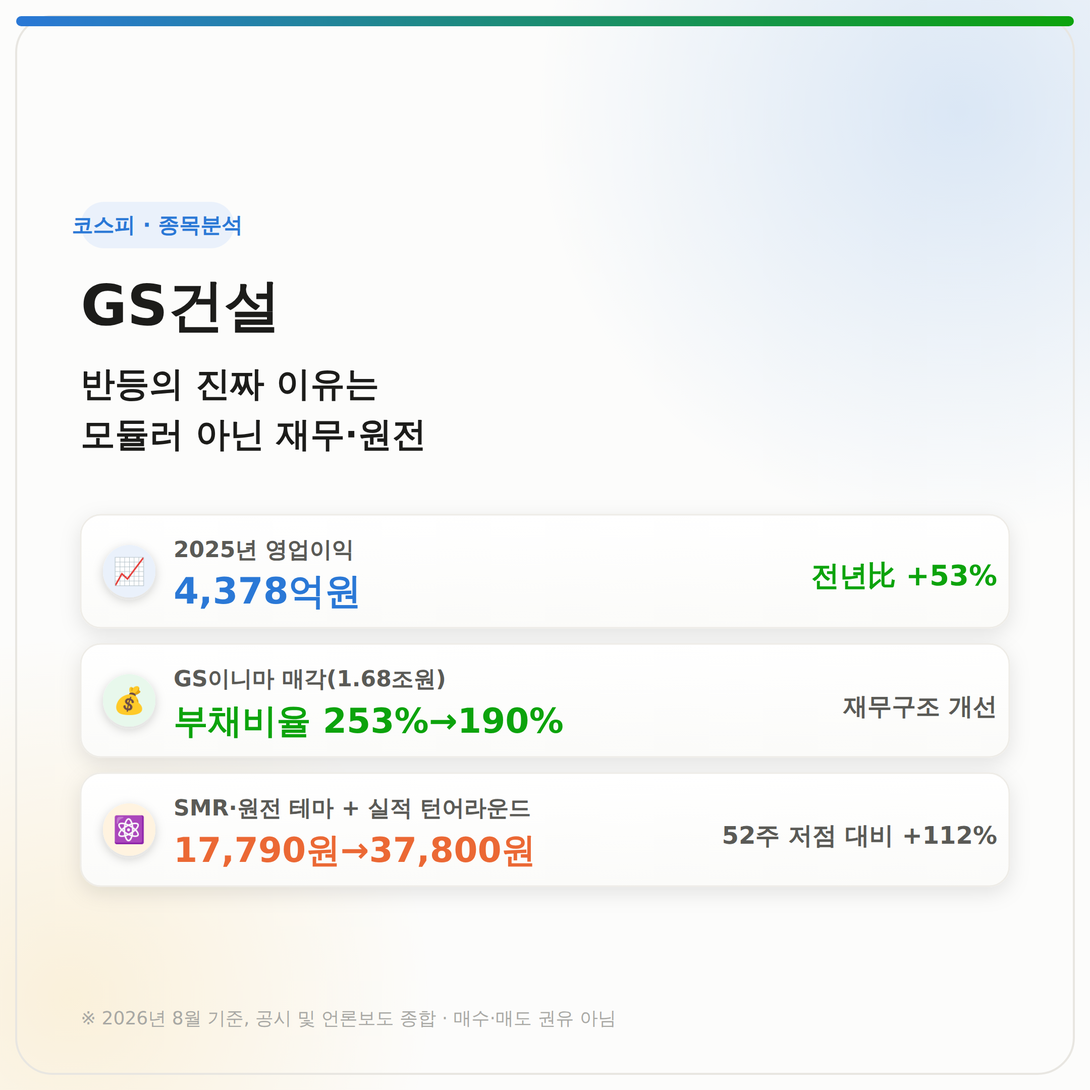
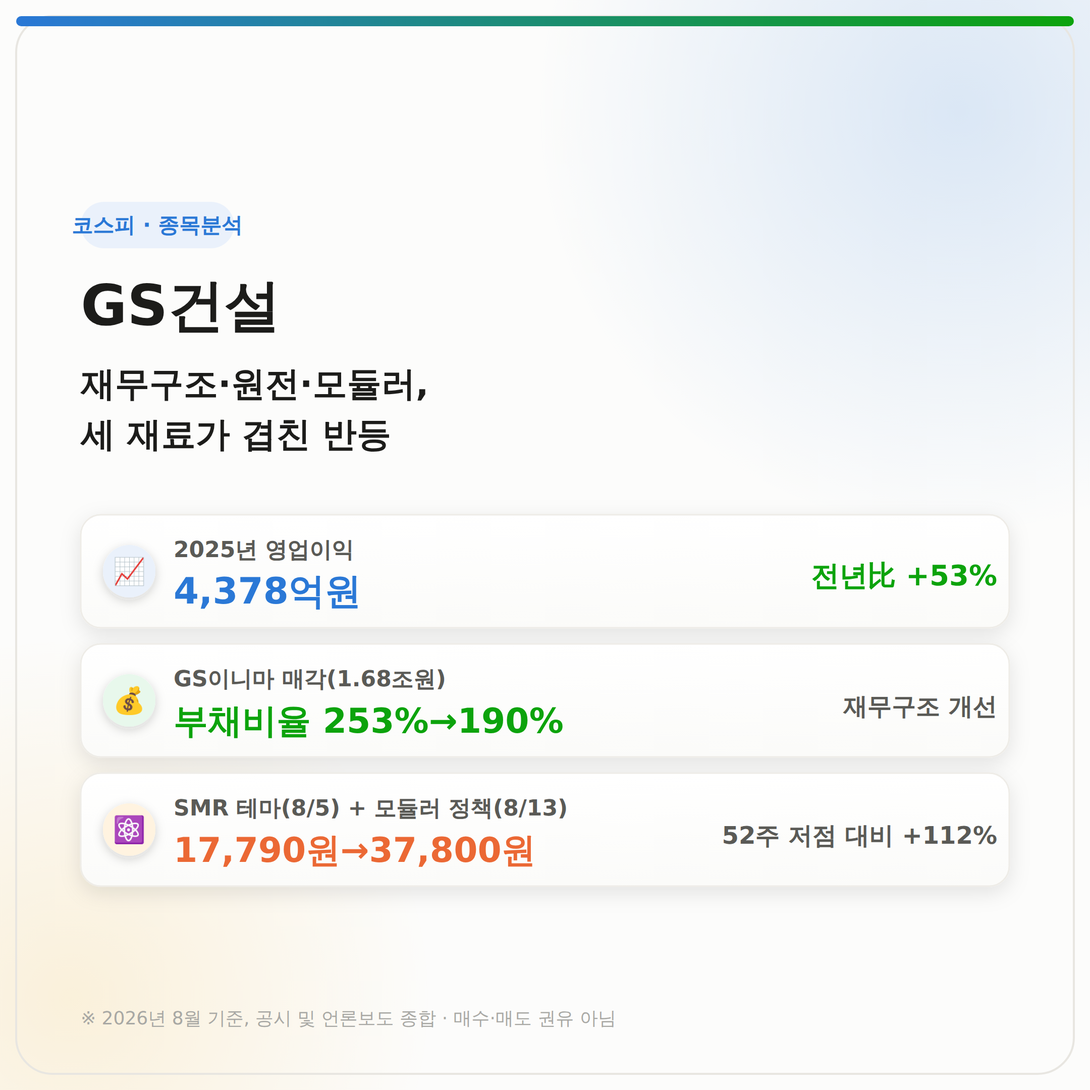
fix: GS건설 글 정정 - 모듈러도 반등 재료 중 하나로 재구성
- '모듈러는 관련없다'는 기존 서술을 정정: 8/13 국토부 '주택 신속공급 방안'
  (모듈러 공공주택 발주 1.2만→2만가구, 공사비 50% 지원)이 8/5 SMR 테마,
  GS이니마 매각발 재무구조 개선과 비슷한 시기에 겹친 세 번째 재료였음을 반영
- 자이가이스트 3분기 누적매출 1,990억원(+33.6%)·영업손실 170억원 등
  구체 수치로 '정책 훈풍은 있지만 개별 실적은 아직 적자'라는 균형 잡힌 톤으로 수정
- 제목/커버/차트를 '재무구조·원전·모듈러 세 재료' 프레이밍으로 전면 수정,
  종가추이 차트에 8/13 모듈러 정책 콜아웃 추가
- 시나리오/투자포인트·리스크/결론 전반에 모듈러 정책 변수 반영

Changed region(s): [[0.062, 0.3412, 0.4032, 0.4343], [0.3412, 0.7134, 0.5273, 0.7755], [0.2171, 0.7134, 0.3102, 0.7755]]

diff --git a/src/App.tsx b/src/App.tsx
@@ -9,20 +9,20 @@ import { Post } from './types';
 const samplePosts: Post[] = [
   {
     id: 'post-37',
-    title: 'GS건설 분석 - 반등의 진짜 이유는 모듈러 아닌 재무·원전',
+    title: 'GS건설 분석 - 재무구조·원전·모듈러, 세 재료가 겹친 반등',
     category: '주식',
     date: '2026-08-27',
     tags: ['주식', 'GS건설', '건설주', 'SMR', '원전', '모듈러주택', '종목분석', '코스피'],
     naverCategory: '국내주식',
     filePath: 'posts/stock/gsenc-analysis.md',
     content: `
-# GS건설 분석 - 반등의 진짜 이유는 모듈러 아닌 재무·원전
+# GS건설 분석 - 재무구조·원전·모듈러, 세 재료가 겹친 반등
 
 안녕하세요 대왕토끼입니다~ 🐰
 
-![GS건설 주식분석 커버 이미지 - 반등의 진짜 이유는 모듈러 아닌 재무·원전, 2025년 영업이익 4378억원 전년比 +53%, GS이니마 매각(1.68조원) 부채비율 253%→190% 재무구조 개선, SMR원전 테마+실적 턴어라운드 17790원→37800원 52주 저점 대비 +112%](/images/gsenc-stock/gsenc-cover.png)
+![GS건설 주식분석 커버 이미지 - 재무구조·원전·모듈러 세 재료가 겹친 반등, 2025년 영업이익 4378억원 전년比 +53%, GS이니마 매각(1.68조원) 부채비율 253%→190% 재무구조 개선, SMR원전 테마+모듈러 공공정책 17790원→37800원 52주 저점 대비 +112%](/images/gsenc-stock/gsenc-cover.png)
 
-이번 글에서는 52주 저점 대비 두 배 넘게 뛴 **GS건설**을 살펴보려고 합니다. "모듈러 주택 때문에 오른 거 아니냐"는 질문을 받았는데, 결론부터 말씀드리면 **아니에요**. 실제로 주가를 끌어올린 건 재무구조 개선과 원전(SMR) 테마였고, 모듈러 주택은 오히려 최근 몇 년간 고전해온 사업이에요. 차근차근 짚어볼게요.
+이번 글에서는 52주 저점 대비 두 배 넘게 뛴 **GS건설**을 살펴보려고 합니다. "모듈러 주택 때문에 오른 거 아니냐"는 질문을 받고 처음에는 "아니다"라고 정리했었는데, 다시 파보니 그렇게 딱 잘라 말하긴 어렵겠더라고요. 실제로는 재무구조 개선, 원전(SMR) 테마, 그리고 8월 중순 나온 모듈러 공공주택 정책 확대까지 — 비슷한 시기에 세 가지 재료가 겹친 걸로 보여요. 순서대로 짚어볼게요.
 
 > ⚠ 이 글은 특정 종목의 매수·매도를 권유하는 글이 아니며, 투자 판단과 책임은 투자자 본인에게 있습니다. 수치는 공시 및 언론 보도를 바탕으로 정리했습니다. 투자 전 최신 사업보고서와 증권사 리포트를 반드시 직접 확인해 주세요.
 
@@ -46,6 +46,7 @@ GS건설은 GS그룹 계열의 종합건설사로, 아파트 브랜드 '자이(X
 
 - **밸류에이션 재평가**: 건설주들이 장기간 저평가돼 있던 상태에서, 실적 턴어라운드가 확인되며 PBR(주가순자산비율) 재평가가 진행되고 있어요. GS건설도 PBR 0.3배 수준까지 떨어졌던 '바닥권'에서 반등한 사례로 꼽혀요.
 - **SMR(소형모듈원자로)·원전 테마**: 정부가 2026년 세제개편안을 통해 국가전략기술 적용 범위를 기존 수소 분야에서 SMR·MMR(초소형원자로) 등으로 확대하기로 하면서, 관련 기업들이 R&D 비용의 30~50%, 시설투자 비용의 15~30%를 세액공제받을 수 있게 됐어요. 여기에 테라파워 창업자 빌 게이츠의 방한 소식까지 겹치며 원전·건설 관련주 전반이 강세를 보였습니다.
+- **모듈러 공공주택 정책 확대**: 정부가 8월 13일 발표한 '주택 신속공급 방안'에는 LH 등의 모듈러 공공주택 발주 물량을 2027~2030년 1만 2,000가구에서 2만 가구로 67% 늘리고, 일반공법 대비 초과되는 공사비(호당 약 7,000만원)의 절반가량을 재정지원하는 내용이 담겼어요. 국내 모듈러 주택 시장 규모도 2025년 1조 6,000억원에서 2030년 4조 4,000억원으로 연평균 24%가량 성장할 것으로 전망되고 있고요.
 - **데이터센터 사업**: 일부 증권사는 GS그룹 차원의 데이터센터 사업 본격화도 GS건설의 새로운 성장 동력으로 주목하고 있어요.
 
 이 흐름 안에서 GS건설은 원전·SMR 관련 시공 경험과 실적 턴어라운드가 동시에 부각되며, 건설업종 내에서도 특히 강한 반등을 보인 종목으로 꼽혀요.
@@ -64,7 +65,7 @@ GS건설의 최근 실적은 "외형은 줄고 수익성은 개선"되는 흐름
 
 ---
 
-## 4. 가장 큰 이슈 - 진짜 반등 재료는 모듈러가 아니다
+## 4. 가장 큰 이슈 - 재무구조, 원전, 모듈러 정책까지 세 겹의 호재
 
 ### ① 재무구조 개선 - GS이니마 매각이 결정타
 
@@ -78,15 +79,21 @@ GS건설은 스페인 수처리 자회사 GS이니마를 1조 6,770억원에 매
 
 이후에도 강세는 이어져서, 8월 26일에는 건설업종 전체가 강세(+5.77%)를 보인 가운데 GS건설은 +8.00% 오른 37,800원으로 마감했어요. 52주 저점 대비로는 이미 두 배 넘게(+112%) 오른 상태입니다.
 
-### ③ 그렇다면 모듈러 주택은? - 아직은 '진행형 숙제'에 가깝다
+### ③ 8월 13일, 모듈러 공공주택 정책까지 겹쳤다
 
-정작 모듈러 주택 사업은 최근 이 반등의 직접적인 재료는 아니었어요. 오히려 신사업으로서는 아직 갈 길이 멀다는 평가가 많아요.
+여기에 8월 13일, 정부의 '주택 신속공급 방안' 발표가 더해졌어요. 모듈러 공공주택 발주 물량을 2만 가구로 67% 늘리고 공사비의 절반가량을 재정지원하겠다는 내용은, 모듈러 사업을 신성장 축으로 키워온 GS건설 입장에서 분명한 정책 호재예요. 삼성전자·LG전자도 같은 시장에 뛰어들며 경쟁이 붙을 만큼, 모듈러 주택 자체가 업계 전반에서 재평가받는 분위기이기도 하고요.
 
-- 국내 모듈러 자회사 **자이가이스트**는 매출이 늘고 있음에도 5년째 적자를 벗어나지 못하고 있어요.
-- 영국 철골 모듈러 자회사 **엘리먼츠 유럽**은 신사업 동력에 대한 우려 속에 2025년 7월 청산됐어요.
+다만 정책 훈풍과 회사의 실제 실적은 아직 온도차가 있어요.
+
+- 국내 모듈러 자회사 **자이가이스트**는 3분기 누적매출 1,990억원으로 전년 연간(1,490억원) 대비 이미 +33.6% 성장했지만, 영업손실 170억원을 내며 5년 연속 적자를 벗어나지 못하고 있어요.
+- 영국 철골 모듈러 자회사 **엘리먼츠 유럽**은 대형 프로젝트(버밍엄 캠프힐, 약 2,100억원 규모)에서 큰 손실을 내며 2025년 청산 절차에 들어갔어요.
 - 폴란드 목조 모듈러 자회사 **단우드**만 유럽 시장에서 비교적 견조한 실적을 내며 버팀목 역할을 하고 있는 정도예요.
 
-정리하면, 모듈러 주택은 허윤홍 대표가 직접 챙기는 장기 성장 스토리이긴 하지만, 실제 이번 주가 반등을 만든 건 ①재무구조 개선과 ②SMR·원전 테마 두 가지였다는 게 더 정확한 설명이에요.
+즉 모듈러 주택은 8월 13일 정책 발표 이후 "GS건설의 신사업 전반이 재평가받는" 흐름에 확실히 힘을 보탠 재료이지만, 8월 5일의 급등 그 자체를 만든 재료는 아니었고 자이가이스트의 개별 실적은 여전히 적자라는 점은 구분해서 볼 필요가 있어요.
+
+### ④ 종합하면 - 세 재료가 시차를 두고 겹친 반등
+
+정리하면 이런 순서예요: 8월 5일 SMR·원전 테마가 첫 급등을 만들었고, GS이니마 매각으로 상징되는 재무구조 개선이 그 반등에 펀더멘털을 뒷받침했고, 8월 13일 모듈러 공공주택 정책 확대가 신사업 전반에 대한 기대감을 더했다고 보는 게 정확해요. "모듈러 때문에 올랐다"고 단정하기도, "모듈러는 상관없다"고 잘라 말하기도 둘 다 지나친 셈이고, 세 재료가 8월 한 달 사이 시차를 두고 겹친 결과로 보는 게 가장 균형 잡힌 설명일 것 같아요.
 
 ---
 
@@ -111,19 +118,21 @@ GS건설은 스페인 수처리 자회사 GS이니마를 1조 6,770억원에 매
 
 ## 6. 앞으로의 향방: 두 가지 시나리오
 
-### 📈 낙관 시나리오 (재무개선 + 원전 모멘텀 지속)
+### 📈 낙관 시나리오 (재무개선 + 원전·모듈러 모멘텀 지속)
 - GS이니마 매각 대금이 실제로 유입되며 부채비율 개선이 재무제표로 확인되는 흐름
 - SMR·원전 관련 실제 수주 성과가 나오며 테마가 실적으로 연결되는 흐름
+- 모듈러 공공주택 발주 확대(2만 가구)가 실제 수주로 이어지며 자이가이스트 적자 폭이 줄어드는 흐름
 - 주택사업 매출총이익률이 전망대로 14.6~17.6%까지 회복되는 흐름
-- 관전 포인트: GS이니마 매각 종결 시점, SMR 관련 실제 수주 소식, 3분기 주택 마진 추이
+- 관전 포인트: GS이니마 매각 종결 시점, SMR·모듈러 관련 실제 수주 소식, 3분기 주택 마진과 자이가이스트 적자 추이
 
 ### 📉 비관 시나리오 (테마 소멸 + 본업 부진 재현)
 - 원전·SMR 테마가 실제 수주 성과 없이 기대감만으로 끝나며 차익실현 매물이 출회하는 흐름
+- 모듈러 공공주택 정책이 발표만큼 빠르게 집행되지 못하며 기대감이 식는 흐름
 - 대손비용 같은 일회성 비용이 다시 반영되며 분기 실적 변동성이 커지는 흐름
-- 모듈러 등 신사업의 적자가 장기화되며 신성장 부문 전체에 대한 우려가 재부각되는 흐름
+- 자이가이스트 등 모듈러 신사업의 적자가 장기화되며 신성장 부문 전체에 대한 우려가 재부각되는 흐름
 - 단기 급등에 따른 밸류에이션 부담(목표가 하회 사례처럼)이 부각되는 흐름
 
-결국 핵심은 "재무구조 개선과 원전 테마가 실제 수주·실적으로 이어지는지"를 다음 분기부터 확인하는 거예요.
+결국 핵심은 "재무구조 개선, 원전 테마, 모듈러 정책 세 가지가 실제 수주·실적으로 이어지는지"를 다음 분기부터 확인하는 거예요.
 
 ---
 
@@ -133,10 +142,11 @@ GS건설은 스페인 수처리 자회사 GS이니마를 1조 6,770억원에 매
 - GS이니마 매각으로 부채비율이 크게 낮아지며 재무 안정성이 개선되고 있어요.
 - 주택사업 원가율 안정화로 매출총이익률이 뚜렷한 회복세를 보이고 있어요.
 - SMR·원전, 데이터센터 등 새로운 테마에서 시공 역량을 인정받고 있어요.
+- 8월 13일 모듈러 공공주택 정책 확대(발주 2만 가구, 공사비 50% 지원)로 모듈러 사업의 정책적 뒷받침이 강화됐어요.
 - 신규수주가 가이던스를 크게 초과 달성하며 향후 매출 가시성이 확보되고 있어요.
 
 **리스크**
-- 모듈러 주택(자이가이스트 등) 신사업은 여전히 적자 상태로, 신성장 부문 전체의 수익성 개선은 아직 갈 길이 멀어요.
+- 모듈러 주택(자이가이스트 등) 신사업은 정책 훈풍에도 여전히 적자 상태로, 실제 흑자 전환까지는 시간이 더 필요해 보여요.
 - 이미 목표주가를 앞지른 증권사도 있는 만큼, 단기 급등에 따른 밸류에이션 부담을 점검해볼 필요가 있어요.
 - 대손비용 같은 일회성 비용이 다시 발생할 경우 분기 실적 변동성이 커질 수 있어요.
 - SMR·원전 테마는 아직 실제 수주로 확인되지 않은 기대감 중심이라, 테마가 식으면 주가 조정 폭이 클 수 있어요.
@@ -145,9 +155,9 @@ GS건설은 스페인 수처리 자회사 GS이니마를 1조 6,770억원에 매
 
 ## 8. 결론 및 투자자 시사점
 
-GS건설은 52주 저점(17,790원) 대비 두 배 넘게 오른 종목이지만, 그 이유를 모듈러 주택에서 찾기는 어려워요. 실제로는 GS이니마 매각을 통한 재무구조 개선, 주택사업 원가율 안정화에 따른 실적 턴어라운드, 그리고 SMR·원전 세제지원과 빌 게이츠 방한 같은 테마성 재료가 겹치며 만들어진 반등이에요. 모듈러 주택은 오히려 자이가이스트의 5년 연속 적자, 엘리먼츠 유럽 청산처럼 아직 성과보다 숙제가 많은 사업이라는 점도 함께 기억해두시면 좋을 것 같아요.
+GS건설은 52주 저점(17,790원) 대비 두 배 넘게 오른 종목인데, 그 이유를 한 가지로만 설명하기는 어려워요. GS이니마 매각을 통한 재무구조 개선, 8월 5일 SMR·원전 테마 급등, 그리고 8월 13일 모듈러 공공주택 정책 확대까지 — 서로 다른 성격의 호재 세 가지가 8월 한 달 사이 시차를 두고 겹치며 만들어진 반등이에요. 다만 모듈러 주택은 정책적 뒷받침이 강해진 것과 별개로, 자이가이스트의 5년 연속 적자·엘리먼츠 유럽 청산처럼 회사 자체의 실적은 아직 성과보다 숙제가 많다는 점도 함께 기억해두시면 좋을 것 같아요.
 
-목표주가가 증권사마다 34,000원부터 51,000원까지 크게 엇갈려 있고, 이미 현재가를 밑도는 목표가도 있는 만큼, 이 반등이 재무·실적 개선을 온전히 반영한 재평가인지 테마성 과열인지는 다음 분기 실적과 실제 SMR 수주 소식으로 직접 확인해보시길 추천드려요.
+목표주가가 증권사마다 34,000원부터 51,000원까지 크게 엇갈려 있고, 이미 현재가를 밑도는 목표가도 있는 만큼, 이 반등이 재무·실적 개선과 정책 모멘텀을 온전히 반영한 재평가인지 테마성 과열인지는 다음 분기 실적과 실제 SMR·모듈러 수주 소식으로 직접 확인해보시길 추천드려요.
 
 투자는 언제나 최신 사업보고서와 분기 실적, 그리고 그날그날의 업황 뉴스를 직접 확인하신 후 신중하게 결정하시길 바랍니다. 📊
 

diff --git a/posts/stock/gsenc-analysis.md b/posts/stock/gsenc-analysis.md
@@ -1,18 +1,18 @@
 ---
-title: "GS건설 분석 - 반등의 진짜 이유는 모듈러 아닌 재무·원전"
+title: "GS건설 분석 - 재무구조·원전·모듈러, 세 재료가 겹친 반등"
 category: "주식"
 date: "2026-08-27"
 tags: ["주식", "GS건설", "건설주", "SMR", "원전", "모듈러주택", "종목분석", "코스피"]
 naverCategory: "국내주식"
 ---
 
-# GS건설 분석 - 반등의 진짜 이유는 모듈러 아닌 재무·원전
+# GS건설 분석 - 재무구조·원전·모듈러, 세 재료가 겹친 반등
 
 안녕하세요 대왕토끼입니다~ 🐰
 
-![GS건설 주식분석 커버 이미지 - 반등의 진짜 이유는 모듈러 아닌 재무·원전, 2025년 영업이익 4378억원 전년比 +53%, GS이니마 매각(1.68조원) 부채비율 253%→190% 재무구조 개선, SMR원전 테마+실적 턴어라운드 17790원→37800원 52주 저점 대비 +112%](/images/gsenc-stock/gsenc-cover.png)
+![GS건설 주식분석 커버 이미지 - 재무구조·원전·모듈러 세 재료가 겹친 반등, 2025년 영업이익 4378억원 전년比 +53%, GS이니마 매각(1.68조원) 부채비율 253%→190% 재무구조 개선, SMR원전 테마+모듈러 공공정책 17790원→37800원 52주 저점 대비 +112%](/images/gsenc-stock/gsenc-cover.png)
 
-이번 글에서는 52주 저점 대비 두 배 넘게 뛴 **GS건설**을 살펴보려고 합니다. "모듈러 주택 때문에 오른 거 아니냐"는 질문을 받았는데, 결론부터 말씀드리면 **아니에요**. 실제로 주가를 끌어올린 건 재무구조 개선과 원전(SMR) 테마였고, 모듈러 주택은 오히려 최근 몇 년간 고전해온 사업이에요. 차근차근 짚어볼게요.
+이번 글에서는 52주 저점 대비 두 배 넘게 뛴 **GS건설**을 살펴보려고 합니다. "모듈러 주택 때문에 오른 거 아니냐"는 질문을 받고 처음에는 "아니다"라고 정리했었는데, 다시 파보니 그렇게 딱 잘라 말하긴 어렵겠더라고요. 실제로는 재무구조 개선, 원전(SMR) 테마, 그리고 8월 중순 나온 모듈러 공공주택 정책 확대까지 — 비슷한 시기에 세 가지 재료가 겹친 걸로 보여요. 순서대로 짚어볼게요.
 
 > ⚠ 이 글은 특정 종목의 매수·매도를 권유하는 글이 아니며, 투자 판단과 책임은 투자자 본인에게 있습니다. 수치는 공시 및 언론 보도를 바탕으로 정리했습니다. 투자 전 최신 사업보고서와 증권사 리포트를 반드시 직접 확인해 주세요.
 
@@ -36,6 +36,7 @@ GS건설은 GS그룹 계열의 종합건설사로, 아파트 브랜드 '자이(X
 
 - **밸류에이션 재평가**: 건설주들이 장기간 저평가돼 있던 상태에서, 실적 턴어라운드가 확인되며 PBR(주가순자산비율) 재평가가 진행되고 있어요. GS건설도 PBR 0.3배 수준까지 떨어졌던 '바닥권'에서 반등한 사례로 꼽혀요.
 - **SMR(소형모듈원자로)·원전 테마**: 정부가 2026년 세제개편안을 통해 국가전략기술 적용 범위를 기존 수소 분야에서 SMR·MMR(초소형원자로) 등으로 확대하기로 하면서, 관련 기업들이 R&D 비용의 30~50%, 시설투자 비용의 15~30%를 세액공제받을 수 있게 됐어요. 여기에 테라파워 창업자 빌 게이츠의 방한 소식까지 겹치며 원전·건설 관련주 전반이 강세를 보였습니다.
+- **모듈러 공공주택 정책 확대**: 정부가 8월 13일 발표한 '주택 신속공급 방안'에는 LH 등의 모듈러 공공주택 발주 물량을 2027~2030년 1만 2,000가구에서 2만 가구로 67% 늘리고, 일반공법 대비 초과되는 공사비(호당 약 7,000만원)의 절반가량을 재정지원하는 내용이 담겼어요. 국내 모듈러 주택 시장 규모도 2025년 1조 6,000억원에서 2030년 4조 4,000억원으로 연평균 24%가량 성장할 것으로 전망되고 있고요.
 - **데이터센터 사업**: 일부 증권사는 GS그룹 차원의 데이터센터 사업 본격화도 GS건설의 새로운 성장 동력으로 주목하고 있어요.
 
 이 흐름 안에서 GS건설은 원전·SMR 관련 시공 경험과 실적 턴어라운드가 동시에 부각되며, 건설업종 내에서도 특히 강한 반등을 보인 종목으로 꼽혀요.
@@ -54,7 +55,7 @@ GS건설의 최근 실적은 "외형은 줄고 수익성은 개선"되는 흐름
 
 ---
 
-## 4. 가장 큰 이슈 - 진짜 반등 재료는 모듈러가 아니다
+## 4. 가장 큰 이슈 - 재무구조, 원전, 모듈러 정책까지 세 겹의 호재
 
 ### ① 재무구조 개선 - GS이니마 매각이 결정타
 
@@ -68,15 +69,21 @@ GS건설은 스페인 수처리 자회사 GS이니마를 1조 6,770억원에 매
 
 이후에도 강세는 이어져서, 8월 26일에는 건설업종 전체가 강세(+5.77%)를 보인 가운데 GS건설은 +8.00% 오른 37,800원으로 마감했어요. 52주 저점 대비로는 이미 두 배 넘게(+112%) 오른 상태입니다.
 
-### ③ 그렇다면 모듈러 주택은? - 아직은 '진행형 숙제'에 가깝다
+### ③ 8월 13일, 모듈러 공공주택 정책까지 겹쳤다
 
-정작 모듈러 주택 사업은 최근 이 반등의 직접적인 재료는 아니었어요. 오히려 신사업으로서는 아직 갈 길이 멀다는 평가가 많아요.
+여기에 8월 13일, 정부의 '주택 신속공급 방안' 발표가 더해졌어요. 모듈러 공공주택 발주 물량을 2만 가구로 67% 늘리고 공사비의 절반가량을 재정지원하겠다는 내용은, 모듈러 사업을 신성장 축으로 키워온 GS건설 입장에서 분명한 정책 호재예요. 삼성전자·LG전자도 같은 시장에 뛰어들며 경쟁이 붙을 만큼, 모듈러 주택 자체가 업계 전반에서 재평가받는 분위기이기도 하고요.
 
-- 국내 모듈러 자회사 **자이가이스트**는 매출이 늘고 있음에도 5년째 적자를 벗어나지 못하고 있어요.
-- 영국 철골 모듈러 자회사 **엘리먼츠 유럽**은 신사업 동력에 대한 우려 속에 2025년 7월 청산됐어요.
+다만 정책 훈풍과 회사의 실제 실적은 아직 온도차가 있어요.
+
+- 국내 모듈러 자회사 **자이가이스트**는 3분기 누적매출 1,990억원으로 전년 연간(1,490억원) 대비 이미 +33.6% 성장했지만, 영업손실 170억원을 내며 5년 연속 적자를 벗어나지 못하고 있어요.
+- 영국 철골 모듈러 자회사 **엘리먼츠 유럽**은 대형 프로젝트(버밍엄 캠프힐, 약 2,100억원 규모)에서 큰 손실을 내며 2025년 청산 절차에 들어갔어요.
 - 폴란드 목조 모듈러 자회사 **단우드**만 유럽 시장에서 비교적 견조한 실적을 내며 버팀목 역할을 하고 있는 정도예요.
 
-정리하면, 모듈러 주택은 허윤홍 대표가 직접 챙기는 장기 성장 스토리이긴 하지만, 실제 이번 주가 반등을 만든 건 ①재무구조 개선과 ②SMR·원전 테마 두 가지였다는 게 더 정확한 설명이에요.
+즉 모듈러 주택은 8월 13일 정책 발표 이후 "GS건설의 신사업 전반이 재평가받는" 흐름에 확실히 힘을 보탠 재료이지만, 8월 5일의 급등 그 자체를 만든 재료는 아니었고 자이가이스트의 개별 실적은 여전히 적자라는 점은 구분해서 볼 필요가 있어요.
+
+### ④ 종합하면 - 세 재료가 시차를 두고 겹친 반등
+
+정리하면 이런 순서예요: 8월 5일 SMR·원전 테마가 첫 급등을 만들었고, GS이니마 매각으로 상징되는 재무구조 개선이 그 반등에 펀더멘털을 뒷받침했고, 8월 13일 모듈러 공공주택 정책 확대가 신사업 전반에 대한 기대감을 더했다고 보는 게 정확해요. "모듈러 때문에 올랐다"고 단정하기도, "모듈러는 상관없다"고 잘라 말하기도 둘 다 지나친 셈이고, 세 재료가 8월 한 달 사이 시차를 두고 겹친 결과로 보는 게 가장 균형 잡힌 설명일 것 같아요.
 
 ---
 
@@ -101,19 +108,21 @@ GS건설은 스페인 수처리 자회사 GS이니마를 1조 6,770억원에 매
 
 ## 6. 앞으로의 향방: 두 가지 시나리오
 
-### 📈 낙관 시나리오 (재무개선 + 원전 모멘텀 지속)
+### 📈 낙관 시나리오 (재무개선 + 원전·모듈러 모멘텀 지속)
 - GS이니마 매각 대금이 실제로 유입되며 부채비율 개선이 재무제표로 확인되는 흐름
 - SMR·원전 관련 실제 수주 성과가 나오며 테마가 실적으로 연결되는 흐름
+- 모듈러 공공주택 발주 확대(2만 가구)가 실제 수주로 이어지며 자이가이스트 적자 폭이 줄어드는 흐름
 - 주택사업 매출총이익률이 전망대로 14.6~17.6%까지 회복되는 흐름
-- 관전 포인트: GS이니마 매각 종결 시점, SMR 관련 실제 수주 소식, 3분기 주택 마진 추이
+- 관전 포인트: GS이니마 매각 종결 시점, SMR·모듈러 관련 실제 수주 소식, 3분기 주택 마진과 자이가이스트 적자 추이
 
 ### 📉 비관 시나리오 (테마 소멸 + 본업 부진 재현)
 - 원전·SMR 테마가 실제 수주 성과 없이 기대감만으로 끝나며 차익실현 매물이 출회하는 흐름
+- 모듈러 공공주택 정책이 발표만큼 빠르게 집행되지 못하며 기대감이 식는 흐름
 - 대손비용 같은 일회성 비용이 다시 반영되며 분기 실적 변동성이 커지는 흐름
-- 모듈러 등 신사업의 적자가 장기화되며 신성장 부문 전체에 대한 우려가 재부각되는 흐름
+- 자이가이스트 등 모듈러 신사업의 적자가 장기화되며 신성장 부문 전체에 대한 우려가 재부각되는 흐름
 - 단기 급등에 따른 밸류에이션 부담(목표가 하회 사례처럼)이 부각되는 흐름
 
-결국 핵심은 "재무구조 개선과 원전 테마가 실제 수주·실적으로 이어지는지"를 다음 분기부터 확인하는 거예요.
+결국 핵심은 "재무구조 개선, 원전 테마, 모듈러 정책 세 가지가 실제 수주·실적으로 이어지는지"를 다음 분기부터 확인하는 거예요.
 
 ---
 
@@ -123,10 +132,11 @@ GS건설은 스페인 수처리 자회사 GS이니마를 1조 6,770억원에 매
 - GS이니마 매각으로 부채비율이 크게 낮아지며 재무 안정성이 개선되고 있어요.
 - 주택사업 원가율 안정화로 매출총이익률이 뚜렷한 회복세를 보이고 있어요.
 - SMR·원전, 데이터센터 등 새로운 테마에서 시공 역량을 인정받고 있어요.
+- 8월 13일 모듈러 공공주택 정책 확대(발주 2만 가구, 공사비 50% 지원)로 모듈러 사업의 정책적 뒷받침이 강화됐어요.
 - 신규수주가 가이던스를 크게 초과 달성하며 향후 매출 가시성이 확보되고 있어요.
 
 **리스크**
-- 모듈러 주택(자이가이스트 등) 신사업은 여전히 적자 상태로, 신성장 부문 전체의 수익성 개선은 아직 갈 길이 멀어요.
+- 모듈러 주택(자이가이스트 등) 신사업은 정책 훈풍에도 여전히 적자 상태로, 실제 흑자 전환까지는 시간이 더 필요해 보여요.
 - 이미 목표주가를 앞지른 증권사도 있는 만큼, 단기 급등에 따른 밸류에이션 부담을 점검해볼 필요가 있어요.
 - 대손비용 같은 일회성 비용이 다시 발생할 경우 분기 실적 변동성이 커질 수 있어요.
 - SMR·원전 테마는 아직 실제 수주로 확인되지 않은 기대감 중심이라, 테마가 식으면 주가 조정 폭이 클 수 있어요.
@@ -135,9 +145,9 @@ GS건설은 스페인 수처리 자회사 GS이니마를 1조 6,770억원에 매
 
 ## 8. 결론 및 투자자 시사점
 
-GS건설은 52주 저점(17,790원) 대비 두 배 넘게 오른 종목이지만, 그 이유를 모듈러 주택에서 찾기는 어려워요. 실제로는 GS이니마 매각을 통한 재무구조 개선, 주택사업 원가율 안정화에 따른 실적 턴어라운드, 그리고 SMR·원전 세제지원과 빌 게이츠 방한 같은 테마성 재료가 겹치며 만들어진 반등이에요. 모듈러 주택은 오히려 자이가이스트의 5년 연속 적자, 엘리먼츠 유럽 청산처럼 아직 성과보다 숙제가 많은 사업이라는 점도 함께 기억해두시면 좋을 것 같아요.
+GS건설은 52주 저점(17,790원) 대비 두 배 넘게 오른 종목인데, 그 이유를 한 가지로만 설명하기는 어려워요. GS이니마 매각을 통한 재무구조 개선, 8월 5일 SMR·원전 테마 급등, 그리고 8월 13일 모듈러 공공주택 정책 확대까지 — 서로 다른 성격의 호재 세 가지가 8월 한 달 사이 시차를 두고 겹치며 만들어진 반등이에요. 다만 모듈러 주택은 정책적 뒷받침이 강해진 것과 별개로, 자이가이스트의 5년 연속 적자·엘리먼츠 유럽 청산처럼 회사 자체의 실적은 아직 성과보다 숙제가 많다는 점도 함께 기억해두시면 좋을 것 같아요.
 
-목표주가가 증권사마다 34,000원부터 51,000원까지 크게 엇갈려 있고, 이미 현재가를 밑도는 목표가도 있는 만큼, 이 반등이 재무·실적 개선을 온전히 반영한 재평가인지 테마성 과열인지는 다음 분기 실적과 실제 SMR 수주 소식으로 직접 확인해보시길 추천드려요.
+목표주가가 증권사마다 34,000원부터 51,000원까지 크게 엇갈려 있고, 이미 현재가를 밑도는 목표가도 있는 만큼, 이 반등이 재무·실적 개선과 정책 모멘텀을 온전히 반영한 재평가인지 테마성 과열인지는 다음 분기 실적과 실제 SMR·모듈러 수주 소식으로 직접 확인해보시길 추천드려요.
 
 투자는 언제나 최신 사업보고서와 분기 실적, 그리고 그날그날의 업황 뉴스를 직접 확인하신 후 신중하게 결정하시길 바랍니다. 📊
 
